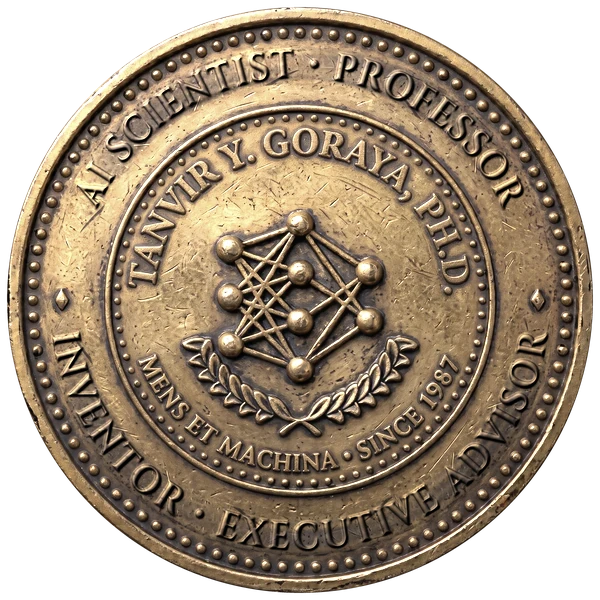
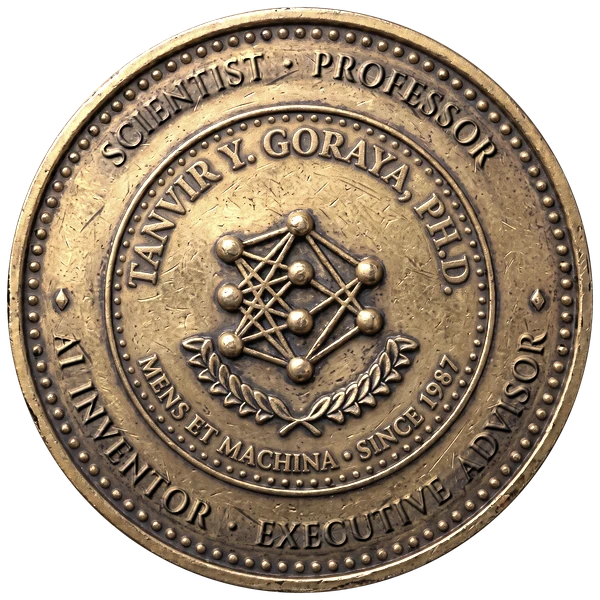
Publish v78: new roles line and medallion
Claude-Session: https://claude.ai/code/session_01GWfdM86N8KTTKbkBphEfrC

Changed region(s): [[0.09, 0.54, 0.93, 0.93], [0.12, 0.06, 0.87, 0.36]]

diff --git a/index.html b/index.html
@@ -981,9 +981,9 @@ h3 { letter-spacing: 0; }
 <main id="top">
   <section class="intro dark" aria-labelledby="name">
     <div class="wrap">
-      <div class="seal-slot"><img src="img/seal.webp" alt="Seal of Tanvir Y. Goraya, Ph.D.: AI Scientist, Professor, Inventor, Executive Advisor. Mens et Machina, since 1987." width="1200" height="1200"></div>
+      <div class="seal-slot"><img src="img/seal.webp" alt="Seal of Tanvir Y. Goraya, Ph.D.: Scientist, Professor, AI Inventor, Executive Advisor. Mens et Machina, since 1987." width="1200" height="1200"></div>
       <p class="hero-name">Tanvir Y. Goraya, Ph.D.</p>
-      <div class="inscription"><span>AI Scientist</span><i></i><span>Professor</span><i></i><span>Inventor</span><i></i><span>Executive Advisor</span></div>
+      <div class="inscription"><span>Scientist</span><i></i><span>Professor</span><i></i><span>AI Inventor</span><i></i><span>Executive Advisor</span></div>
       <h1 id="name" class="headline">Your best experts are leaving. Exit interviews and generative AI can't capture their instinct. <em>We build the models that do.</em></h1>
       <p class="lede">Machine learning, AI and robotics since 1985, on inventions of his own. Production AI for the U.S. Air Force, NASA and the Fortune 500 since 1987. Now building tacit knowledge assistants: AI that captures, and grows with, the judgment your best people cannot put into words.</p>
       <div class="actions"><a class="btn solid" href="#contact">Book a 30-minute scoping call</a><a class="btn" href="executive-brief.html">Watch the 2-minute brief</a></div>

diff --git a/resume.html b/resume.html
@@ -144,7 +144,7 @@ ul.plain b { color: var(--ink); font-weight: 600; }
     <img class="mono" src="img/seal-light.webp" alt="Seal of Tanvir Y. Goraya, Ph.D." width="600" height="600">
     <div>
       <h1>Tanvir Y. Goraya, Ph.D.</h1>
-      <div class="roles">AI Scientist <span class="bar">|</span> Professor <span class="bar">|</span> Inventor <span class="bar">|</span> Executive Advisor</div>
+      <div class="roles">Scientist <span class="bar">|</span> Professor <span class="bar">|</span> AI Inventor <span class="bar">|</span> Executive Advisor</div>
       <div class="contact"><span>Bratenahl, Ohio</span><span>(216) 280-7343</span><span>tyg@mindmodelers.com</span><a href="https://www.linkedin.com/in/tanvirgorayaphd/">linkedin.com/in/tanvirgorayaphd</a><a href="https://scholar.google.com/citations?user=8eEzGBMAAAAJ">Google Scholar</a></div>
     </div>
   </header>
